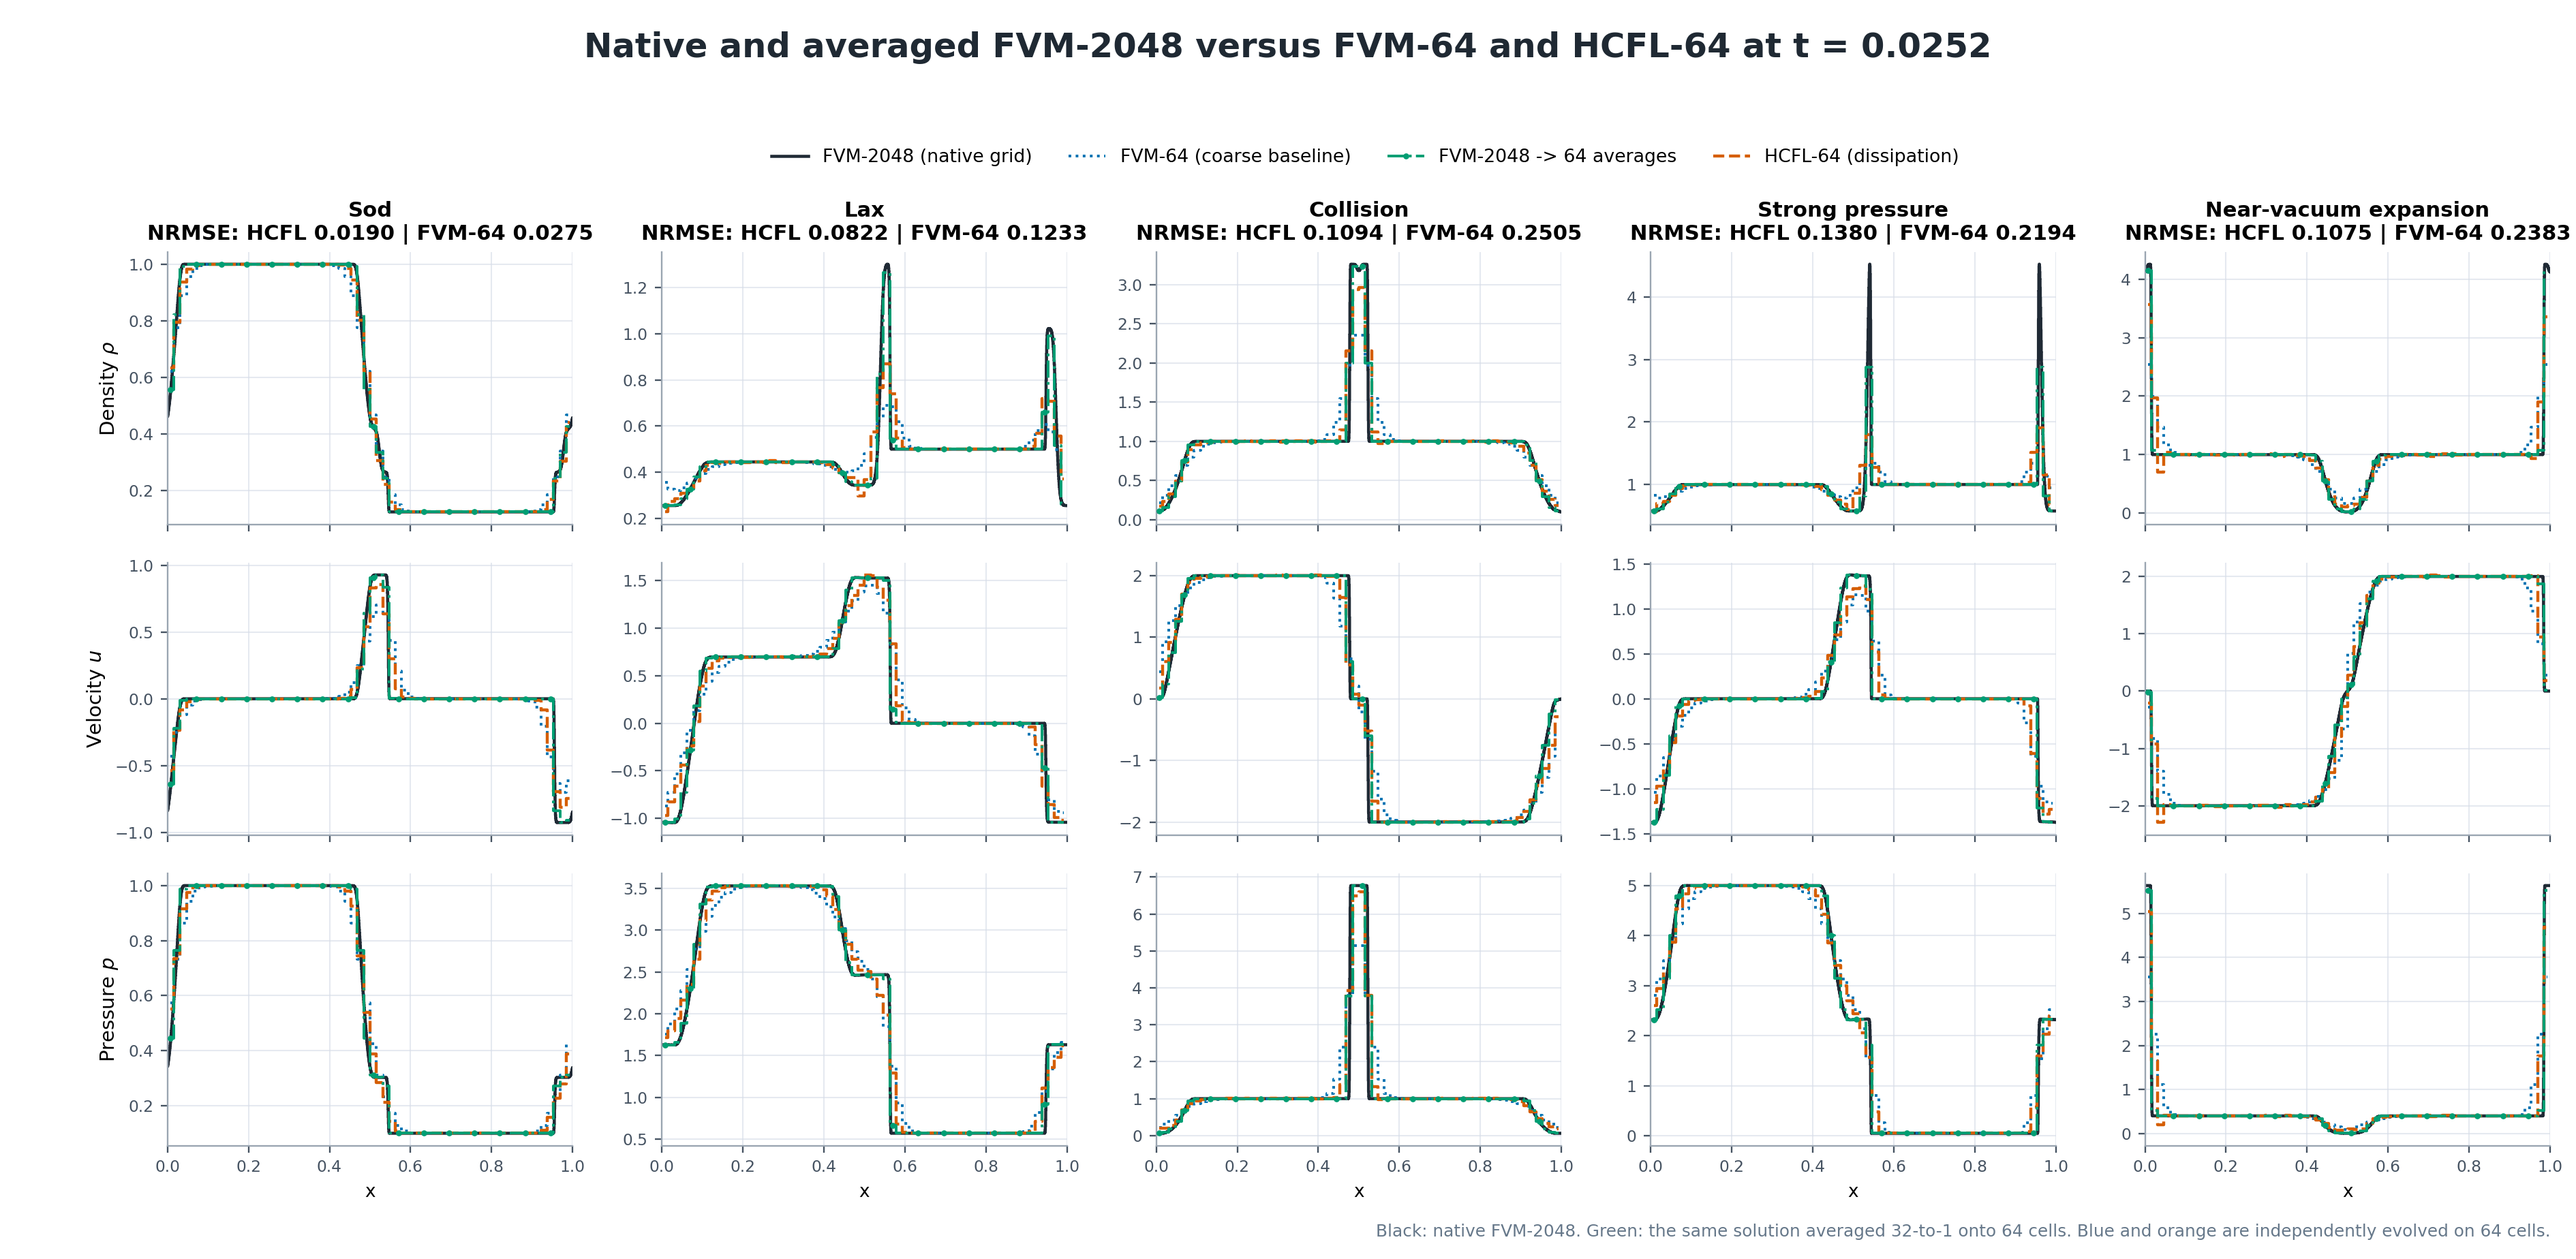
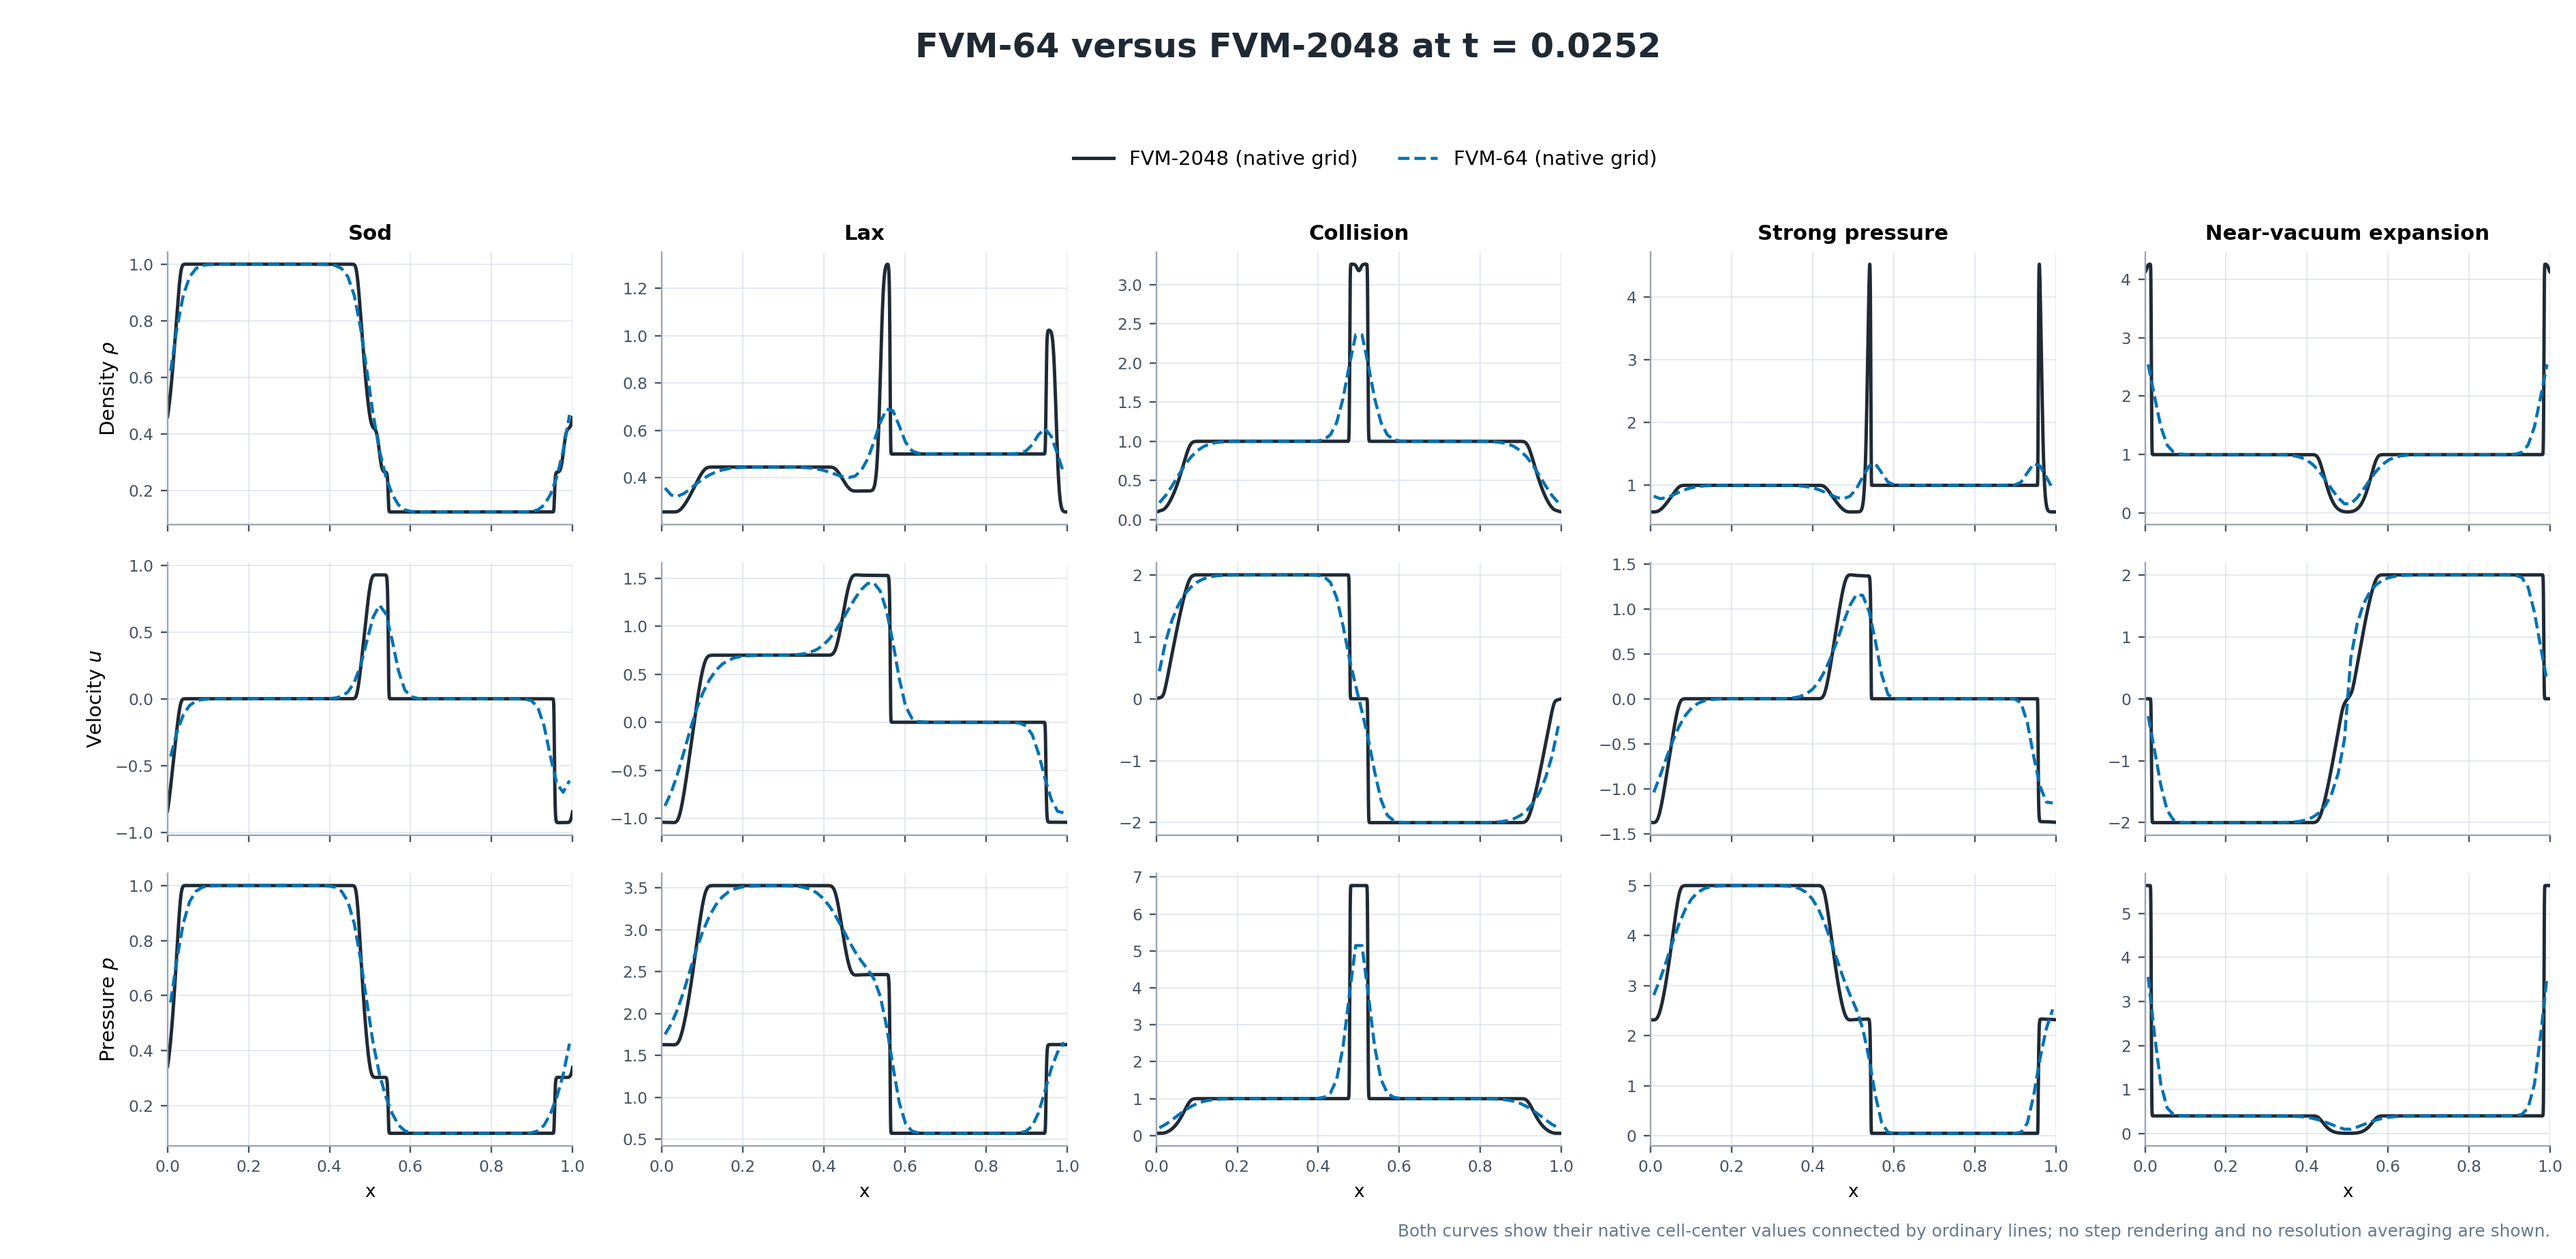
Simplify FVM resolution profile plot

diff --git a/hard_constrained_flux_learning/experiments/euler_1d_convergence_audit/plot_best_vs_fvm.py b/hard_constrained_flux_learning/experiments/euler_1d_convergence_audit/plot_best_vs_fvm.py
@@ -62,9 +62,7 @@ DISPLAY = {
 }
 
 FVM_COLOR = "#202A35"
-PROJECTED_FVM_COLOR = "#009E73"
 COARSE_FVM_COLOR = "#0072B2"
-HCFL_COLOR = "#D55E00"
 GRID_COLOR = "#D8DEE9"
 SPINE_COLOR = "#9AA5B1"
 TEXT_COLOR = "#1F2933"
@@ -210,11 +208,7 @@ def style_axis(axis: plt.Axes) -> None:
 
 def plot_final_profiles(
     native_references: dict[str, torch.Tensor],
-    references: dict[str, torch.Tensor],
     coarse_fvm: dict[str, torch.Tensor],
-    predictions: dict[str, torch.Tensor],
-    summary: dict[str, dict[str, object]],
-    coarse_summary: dict[str, dict[str, object]],
     output: Path,
 ) -> None:
     x_fine = (
@@ -240,59 +234,30 @@ def plot_final_profiles(
 
     for column, name in enumerate(CASES):
         native_reference = base.primitive(native_references[name]).numpy()[0, -1]
-        projected_reference = base.primitive(references[name]).numpy()[0, -1]
         coarse_baseline = base.primitive(coarse_fvm[name]).numpy()[0, -1]
-        prediction = base.primitive(predictions[name]).numpy()[0, -1]
         axes[0, column].set_title(
-            f"{DISPLAY[name]}\n"
-            f"NRMSE: HCFL {summary[name]['rollout_nrmse']:.4f} | "
-            f"FVM-64 {coarse_summary[name]['rollout_nrmse']:.4f}",
+            DISPLAY[name],
             fontsize=10.5,
             fontweight="semibold",
         )
         for row in range(3):
             axis = axes[row, column]
-            axis.step(
+            axis.plot(
                 x_fine,
                 native_reference[:, row],
-                where="mid",
                 color=FVM_COLOR,
-                linewidth=1.55,
+                linewidth=1.7,
                 label="FVM-2048 (native grid)",
                 zorder=2,
             )
-            axis.step(
+            axis.plot(
                 x_coarse,
                 coarse_baseline[:, row],
-                where="mid",
                 color=COARSE_FVM_COLOR,
-                linewidth=1.35,
-                linestyle=":",
-                label="FVM-64 (coarse baseline)",
-                zorder=3,
-            )
-            axis.step(
-                x_coarse,
-                projected_reference[:, row],
-                where="mid",
-                color=PROJECTED_FVM_COLOR,
-                linewidth=1.35,
-                linestyle="-.",
-                marker="o",
-                markersize=2.0,
-                markevery=4,
-                label="FVM-2048 -> 64 averages",
-                zorder=5,
-            )
-            axis.step(
-                x_coarse,
-                prediction[:, row],
-                where="mid",
-                color=HCFL_COLOR,
-                linewidth=1.5,
+                linewidth=1.55,
                 linestyle="--",
-                label="HCFL-64 (dissipation)",
-                zorder=4,
+                label="FVM-64 (native grid)",
+                zorder=3,
             )
             style_axis(axis)
             axis.set_xlim(0.0, 1.0)
@@ -302,7 +267,7 @@ def plot_final_profiles(
                 axis.set_xlabel("x", fontsize=9)
 
     figure.suptitle(
-        "Native and averaged FVM-2048 versus FVM-64 and HCFL-64 at t = 0.0252",
+        "FVM-64 versus FVM-2048 at t = 0.0252",
         y=0.975,
         fontsize=17,
         fontweight="bold",
@@ -314,15 +279,15 @@ def plot_final_profiles(
         labels,
         loc="upper center",
         bbox_to_anchor=(0.53, 0.895),
-        ncol=4,
+        ncol=2,
         frameon=False,
-        fontsize=9.2,
+        fontsize=10,
     )
     figure.text(
         0.99,
         0.018,
-        "Black: native FVM-2048. Green: the same solution averaged 32-to-1 "
-        "onto 64 cells. Blue and orange are independently evolved on 64 cells.",
+        "Both curves show their native cell-center values connected by ordinary lines; "
+        "no step rendering and no resolution averaging are shown.",
         ha="right",
         fontsize=8.5,
         color=MUTED_COLOR,
@@ -477,9 +442,9 @@ def main() -> None:
         "profile_reference": (
             "2048-cell periodic Rusanov + SSP-RK2 shown on its native grid"
         ),
-        "profile_projected_reference": (
-            "the same FVM-2048 trajectory conservatively averaged 32-to-1 "
-            "onto 64 cells"
+        "profile_comparison": (
+            "native FVM-2048 and native FVM-64 cell-center values connected "
+            "by ordinary lines; no averaged or HCFL profile series"
         ),
         "metric_reference": (
             "conservative 64-cell averages of the 2048-cell periodic "
@@ -567,11 +532,7 @@ def main() -> None:
     error_maps_path = results_dir / f"best_vs_fvm_error_maps_seed{args.seed}.png"
     plot_final_profiles(
         native_references,
-        references,
         coarse_fvm,
-        predictions,
-        case_summary,
-        coarse_diagnostics,
         profiles_path,
     )
     plot_error_maps(references, predictions, state_std, error_maps_path)

diff --git a/hard_constrained_flux_learning/experiments/euler_1d_convergence_audit/RESULTS.md b/hard_constrained_flux_learning/experiments/euler_1d_convergence_audit/RESULTS.md
@@ -104,11 +104,13 @@ checkpoints, and figure are stored in [`results/`](results/).
 The validation-selected winner, `dissipation_broad`, was rolled out on the five
 canonical initial conditions without retraining or selecting on them. Its
 64-cell predictions were compared with strict periodic 2048-cell Rusanov +
-SSP-RK2 FVM trajectories. The profile figure shows four distinct series: the
-original 2048-cell curve, that same solution conservatively averaged 32-to-1
-onto 64 cells, a Rusanov + SSP-RK2 solution evolved directly on 64 cells, and
-HCFL-64. Quantitative errors use the averaged FVM-2048 series so both coarse
-solvers are compared on identical cells.
+SSP-RK2 FVM trajectories. The profile figure is intentionally restricted to
+two series: the original 2048-cell solution and a Rusanov + SSP-RK2 solution
+evolved directly on 64 cells. Both are drawn as ordinary lines through their
+native cell-center values, without step rendering. HCFL and the conservative
+64-cell projection are omitted from this diagnostic profile. Quantitative
+errors elsewhere still use the averaged FVM-2048 series so both coarse solvers
+are compared on identical cells.
 
 | case | HCFL-64 NRMSE | FVM-64 NRMSE | HCFL reduction |
 |---|---:|---:|---:|
@@ -119,15 +121,12 @@ solvers are compared on identical cells.
 | near-vacuum expansion | **0.10755** | 0.23829 | 54.87% |
 | five-case mean | **0.09121** | 0.17179 | **46.91%** |
 
-The corrected profiles distinguish true solution structure from plotting
-resolution: FVM-2048 is drawn on all 2048 native cells, its conservative
-64-cell projection is shown explicitly, and FVM-64 and HCFL-64 are drawn as
-coarse cell averages. The dense staircase in the earlier
-version was a display artifact caused by plotting the restricted 64-cell
-reference as if it were the native FVM-2048 curve. The native reference does
-not show broad high-frequency oscillation. HCFL is consistently less diffusive
-than direct FVM-64, although it still underpredicts the narrow peaks in the
-strong-pressure and near-vacuum cases.
+The simplified profile isolates the reference-resolution question. The dense
+staircase in the earlier version was a display artifact caused by plotting the
+restricted 64-cell reference as if it were the native FVM-2048 curve. The
+native reference does not show broad high-frequency oscillation. Learned-model
+accuracy is reported numerically below and in the separate error-map figure;
+it is deliberately not overlaid here.
 
 The same checkpoint scored a canonical mean of `0.06257` against the 512-cell
 FVM reference used by the convergence audit, but `0.09121` against FVM-2048, a

diff --git a/hard_constrained_flux_learning/experiments/euler_1d_convergence_audit/README.md b/hard_constrained_flux_learning/experiments/euler_1d_convergence_audit/README.md
@@ -94,6 +94,7 @@ python plot_best_vs_fvm.py --seed 0
 The seed-0 run completed with all six arms satisfying the validation-plateau
 criterion before the update cap. See [`RESULTS.md`](RESULTS.md) for the revised
 architecture and wave-coverage conclusions. The FVM comparison plot shows the
-reference on its native 2048-cell grid, its explicit 32-to-1 conservative
-64-cell average, a directly evolved FVM-64 baseline, and HCFL-64. Like-for-like
-error metrics use the averaged reference.
+native FVM-2048 and directly evolved FVM-64 solutions only. Both use ordinary
+lines through native cell-center values; the figure omits the averaged and
+HCFL curves. Like-for-like numerical error metrics still use the conservatively
+averaged reference.
